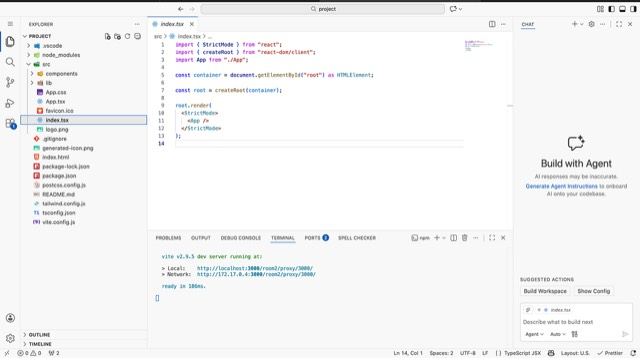
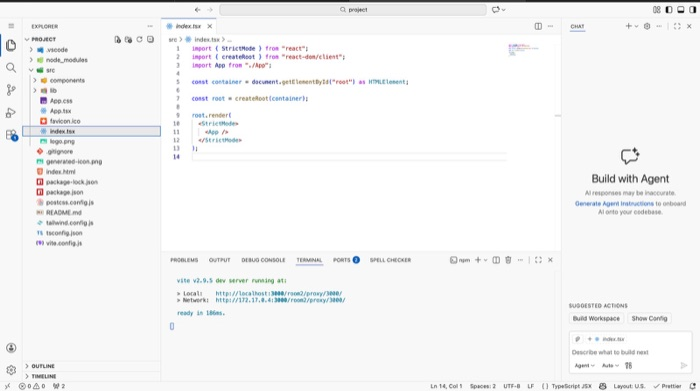
more revisions for v3

diff --git a/data/projects.ts b/data/projects.ts
@@ -30,6 +30,20 @@ export type Fact = {
   value: string;
 };
 
+/** An inline diagram or screenshot inside a write-up section. */
+export type Figure = {
+  src: string;
+  alt: string;
+  /** Shown beneath the image, in the article's own voice. */
+  caption: string;
+  /**
+   * A line drawing rather than a screenshot. Rendered with its white
+   * background keyed out and its lightness inverted, so it reads on a dark
+   * page without losing its hues.
+   */
+  diagram?: boolean;
+};
+
 export type CaseStudy = {
   /** Short descriptor under the title, e.g. "Internal analytics platform". */
   kicker: string;
@@ -46,8 +60,12 @@ export type CaseStudy = {
   glance: string;
   /** Numbered highlights: the two or three things you actually did. */
   highlights: Array<{ title: string; body: string }>;
-  /** Long-form sections, in order. */
-  sections: Array<{ heading: string; paragraphs: string[] }>;
+  /** Long-form sections, in order. Each can carry one figure. */
+  sections: Array<{
+    heading: string;
+    paragraphs: string[];
+    figure?: Figure;
+  }>;
 };
 
 export type Project = {
@@ -214,7 +232,7 @@ export const projects: Project[] = [
     href: "https://medium.com/hack-western/we-ran-hack-western-interviews-off-my-pc-heres-how-we-built-it-in-two-days-b7d0d601a853",
     year: "2026",
     image: "/images/projects/interviews-thumb.jpg",
-    heroImage: "/images/projects/interviews-architecture.jpg",
+    heroImage: "/images/projects/interviews-candidate.jpg",
     caseStudy: {
       kicker: "Hack Western 13 · internal tooling",
       headline:
@@ -255,16 +273,65 @@ export const projects: Project[] = [
           ],
         },
         {
-          heading: "How it works",
+          heading: "The shape of it",
           paragraphs: [
-            "Each room is a Docker container running code-server (VS Code in the browser) with a freshly cloned copy of the evaluation mounted into the workspace. Extensions and a dark theme are baked into the image, so nobody starts an interview configuring their editor.",
-            "Tailscale Funnels put each room on its own public path, a reverse proxy strips that prefix before the request reaches the container, and Bash scripts underneath handle the lifecycle: list rooms, assign a candidate, rotate the password, save the work, reset for the next one.",
-            "Reassigning a candidate who has been in before restores their previous code and evaluation rather than issuing a blank workspace, a safeguard for reconnects and re-runs.",
+            "Everything runs on one desktop. A Tailscale Funnel puts that machine on the public internet without touching the home router, each room is mapped to its own path and its own local port, and an HTTP proxy sits between those paths and the Docker containers that hold the interviews.",
+            "Interviewers get the root path and can see every room. Candidates get exactly one.",
+          ],
+          figure: {
+            src: "/images/projects/interviews-architecture.png",
+            alt: "Architecture diagram: a client connects through a Tailscale Funnel to a PC, where interviewer and candidate paths pass through an HTTP proxy server into separate Docker containers for room1 and room2.",
+            caption: "Client to funnel to proxy to container. The proxy exists because of the path prefix, which is the part that broke first.",
+            diagram: true,
+          },
+        },
+        {
+          heading: "Rooms, not a container per candidate",
+          paragraphs: [
+            "A container per interview was too expensive in memory, so a fixed pool of rooms gets reused. Assigning a candidate clones a fresh copy of the evaluation, mounts it into a room, and rotates that room's password, which is also what stops anyone rejoining after their slot.",
+            "Reassigning someone who has been in before restores their previous code and evaluation instead of a blank workspace, which matters when a connection drops mid-interview.",
+          ],
+          figure: {
+            src: "/images/projects/interviews-rooms.jpg",
+            alt: "Terminal output of the interview list command, showing room1 occupied by tester1 with a URL, password, PID and running status, and room2 free.",
+            caption: "interview list: who is in which room, what they were issued, and what is still free.",
+          },
+        },
+        {
+          heading: "Assigning a candidate",
+          paragraphs: [
+            "One command creates the workspace, reclaims permissions, generates a password, starts the proxy for that port, installs dependencies inside the container, and prints the link to send.",
+            "The link and the password are per-assignment, so the previous candidate's credentials stop working the moment the next one is placed.",
+          ],
+          figure: {
+            src: "/images/projects/interviews-assign.jpg",
+            alt: "Terminal output of interview assign tester1: creating a workspace, reclaiming permissions, generating a password, starting the proxy, installing dependencies, then printing the room URL and password.",
+            caption: "One command from an empty room to a link you can paste into the chat.",
+          },
+        },
+        {
+          heading: "Getting it onto the internet",
+          paragraphs: [
+            "Port forwarding a home router was the option I did not want. Tailscale puts every device on a private network, and Funnels expose one chosen port on one chosen machine to the public internet, so nothing else on the network is reachable.",
+            "Each room is served under its own path on the machine's tailnet domain, which is where the routing problem starts: the apps inside the containers had no idea they were being served from a subpath.",
+          ],
+          figure: {
+            src: "/images/projects/interviews-tailnet.jpg",
+            alt: "Tailscale machines list showing several devices named after frederick, with the Linux desktop marked as having Funnel enabled.",
+            caption: "The tailnet. Only the desktop has a Funnel; everything else is just on the private network.",
+          },
+        },
+        {
+          heading: "The editor itself",
+          paragraphs: [
+            "Each room runs code-server, which is VS Code in the browser, with the evaluation mounted into the workspace. Extensions and a dark theme are baked into the image, so nobody spends part of their thirty minutes configuring an editor.",
+            "Candidates can run the dev server as normal. From their side it is just VS Code, on their own machine, with their own keyboard.",
           ],
         },
         {
-          heading: "What broke, and what's next",
+          heading: "What broke, and what is next",
           paragraphs: [
+            "Serving rooms under a path prefix broke the apps inside them twice over. The React router read the prefix as a route, and asset requests resolved against the wrong base, so the proxy strips the prefix on the way in and Vite's base path is injected per container at runtime.",
             "Self-hosting was the interesting part and also the weak point. A home network drop or a spontaneous reboot meant falling back to the old laptop method mid-schedule; a serverless container runtime would trade the fun for reliability.",
             "The core logic is Bash, which stopped scaling with the complexity, and the tool is CLI-only: fine for a technical team, less so if it outlives one. Both are on the list, along with moving it onto the hackwestern.com domain and open-sourcing it.",
           ],

diff --git a/app/projects/[slug]/page.tsx b/app/projects/[slug]/page.tsx
@@ -4,6 +4,7 @@ import { notFound } from "next/navigation";
 
 import BackLink from "@/components/BackLink";
 import ImpactStats from "@/components/ImpactStats";
+import SectionFigure from "@/components/SectionFigure";
 import { getProject, projects } from "@/data/projects";
 import { site } from "@/data/site";
 
@@ -40,7 +41,7 @@ export default async function ProjectPage({ params }: Params) {
     <article className="pb-16">
       <BackLink href="/#projects" label="Projects" />
 
-      <header className="mt-10">
+      <header>
         <p className="font-mono text-xs uppercase tracking-widest text-faint">
           {kicker}
         </p>
@@ -64,19 +65,9 @@ export default async function ProjectPage({ params }: Params) {
         />
       )}
 
-      <dl className="mt-10 grid grid-cols-2 gap-x-6 gap-y-6 border-t border-dashed border-line pt-8 sm:grid-cols-4">
-        {facts.map((fact) => (
-          <div key={fact.label}>
-            <dt className="font-mono text-xs uppercase tracking-widest text-faint">
-              {fact.label}
-            </dt>
-            <dd className="mt-2 text-sm text-fg">{fact.value}</dd>
-          </div>
-        ))}
-      </dl>
-
       {/* Summary and Full write-up are the two top-level movements; both use
-          the rule-heading, so the split reads at a glance. */}
+          the rule-heading, so the split reads at a glance. Facts, highlights
+          and the glance line all sit inside Summary. */}
       <section className="mt-20">
         <h2 className="flex items-baseline gap-4">
           <span className="text-xl text-bright sm:text-2xl">Summary</span>
@@ -85,12 +76,45 @@ export default async function ProjectPage({ params }: Params) {
             className="h-0 flex-1 self-center border-t border-dashed border-line"
           />
         </h2>
-        <p className="mt-6 text-lg text-fg">{glance}</p>
+
+        <dl className="mt-10 grid grid-cols-2 gap-x-6 gap-y-6 sm:grid-cols-4">
+          {facts.map((fact) => (
+            <div key={fact.label}>
+              <dt className="font-mono text-xs uppercase tracking-widest text-faint">
+                {fact.label}
+              </dt>
+              <dd className="mt-2 text-sm text-fg">{fact.value}</dd>
+            </div>
+          ))}
+        </dl>
+
+        <ol className="mt-8 grid gap-3 sm:grid-cols-3">
+          {highlights.map((highlight, i) => (
+            <li
+              key={highlight.title}
+              className="relative border border-dashed border-line bg-white/[0.02] p-5 backdrop-blur-2xl"
+            >
+              <span className="font-mono text-xs text-accent">
+                <span aria-hidden="true" className="text-line">
+                  [
+                </span>
+                {String(i + 1).padStart(2, "0")}
+                <span aria-hidden="true" className="text-line">
+                  ]
+                </span>
+              </span>
+              <h3 className="mt-3 text-base text-bright">{highlight.title}</h3>
+              <p className="mt-2 text-sm text-muted">{highlight.body}</p>
+            </li>
+          ))}
+        </ol>
+
+        <p className="mt-8 text-lg text-fg">{glance}</p>
       </section>
 
       {/* Everything above is the summary; everything below is the story.
           Same shape as the section headings, minus the number. */}
-      <h2 className="mt-20 flex items-baseline gap-4">
+      <h2 className="mt-24 flex items-baseline gap-4">
         <span className="text-xl text-bright sm:text-2xl">Full write-up</span>
         <span
           aria-hidden="true"
@@ -119,34 +143,9 @@ export default async function ProjectPage({ params }: Params) {
               </p>
             ))}
           </div>
+          {section.figure && <SectionFigure figure={section.figure} />}
         </section>
       ))}
-
-      <section className="mt-16">
-        <h3 className="font-mono text-xs uppercase tracking-widest text-faint">
-          Highlights
-        </h3>
-        <ol className="mt-8 grid gap-3 sm:grid-cols-3">
-          {highlights.map((highlight, i) => (
-            <li
-              key={highlight.title}
-              className="relative border border-dashed border-line bg-white/[0.02] p-5 backdrop-blur-2xl"
-            >
-              <span className="font-mono text-xs text-accent">
-                <span aria-hidden="true" className="text-line">
-                  [
-                </span>
-                {String(i + 1).padStart(2, "0")}
-                <span aria-hidden="true" className="text-line">
-                  ]
-                </span>
-              </span>
-              <h4 className="mt-3 text-base text-bright">{highlight.title}</h4>
-              <p className="mt-2 text-sm text-muted">{highlight.body}</p>
-            </li>
-          ))}
-        </ol>
-      </section>
 
       <footer className="mt-16 border-t border-dashed border-line pt-8">
         {tags.length > 0 && (

diff --git a/components/SectionFigure.tsx b/components/SectionFigure.tsx
@@ -1,0 +1,50 @@
+import Image from "next/image";
+
+import type { Figure } from "@/data/projects";
+
+/**
+ * A diagram or screenshot inside a write-up section.
+ *
+ * Screenshots follow the site's grayscale-until-hover rule.
+ *
+ * Diagrams are handled differently. They arrive as line drawings on white,
+ * which is wrong twice over on a dark page: the white slab fights the
+ * background, and keying it out alone would leave black strokes invisible.
+ * So the source has its background keyed to transparent, and `invert` plus a
+ * 180 degree hue rotation flips lightness while putting the hues back, which
+ * turns black strokes light and leaves the fills recognisable. Alpha is
+ * untouched by both filters, so the background stays clear.
+ */
+export default function SectionFigure({ figure }: { figure: Figure }) {
+  const isDiagram = figure.diagram === true;
+
+  return (
+    <figure className="mt-8">
+      <div
+        className={
+          isDiagram
+            ? "border border-dashed border-line px-4 py-6"
+            : "border border-dashed border-line"
+        }
+      >
+        <Image
+          src={figure.src}
+          alt={figure.alt}
+          width={1400}
+          height={800}
+          sizes="(max-width: 768px) 100vw, 80vw"
+          quality={90}
+          className={[
+            "w-full object-contain",
+            isDiagram
+              ? "invert hue-rotate-180"
+              : "grayscale transition duration-500 hover:grayscale-0",
+          ].join(" ")}
+        />
+      </div>
+      <figcaption className="mt-3 text-xs text-faint">
+        {figure.caption}
+      </figcaption>
+    </figure>
+  );
+}
